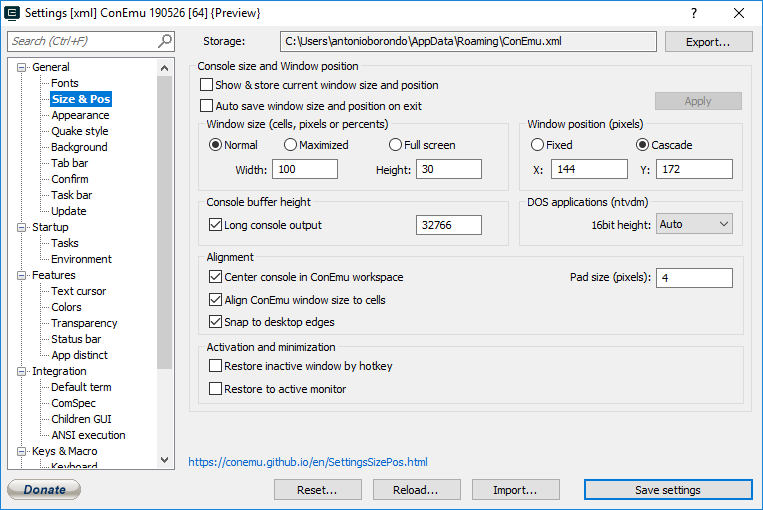
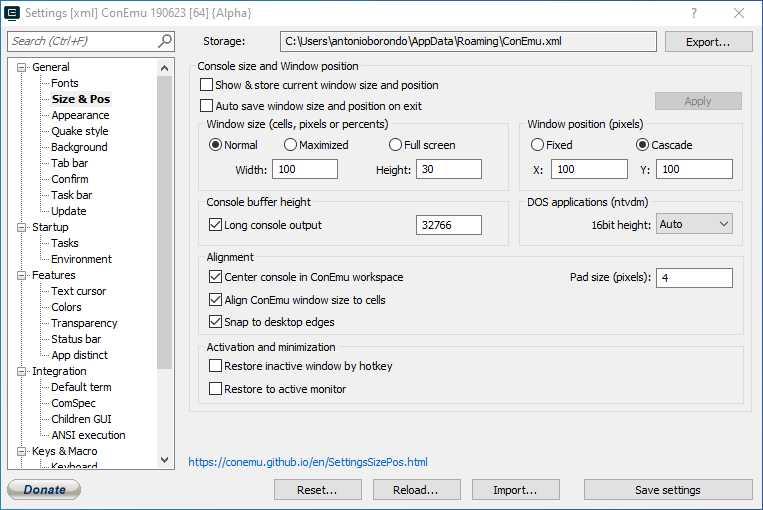
Command line pos

diff --git a/command_line/readme.md b/command_line/readme.md
@@ -61,7 +61,7 @@ Open ConEmu settings and change the following:
 
 ### Settings > General > Size & Pos
 
-Uncheck "Show & store current window size and position" and "Auto save window size and position on exit". Set window "Width" to `100` and "Height" to `30`:
+Uncheck "Show & store current window size and position" and "Auto save window size and position on exit". Set window "Width" to `100`, "Height" to `30`, "X" to `100` and "Y" to `100`:
 
 ![Screenshot](images/conemu_settings_general_size_&_pos.png?raw=true)
 
